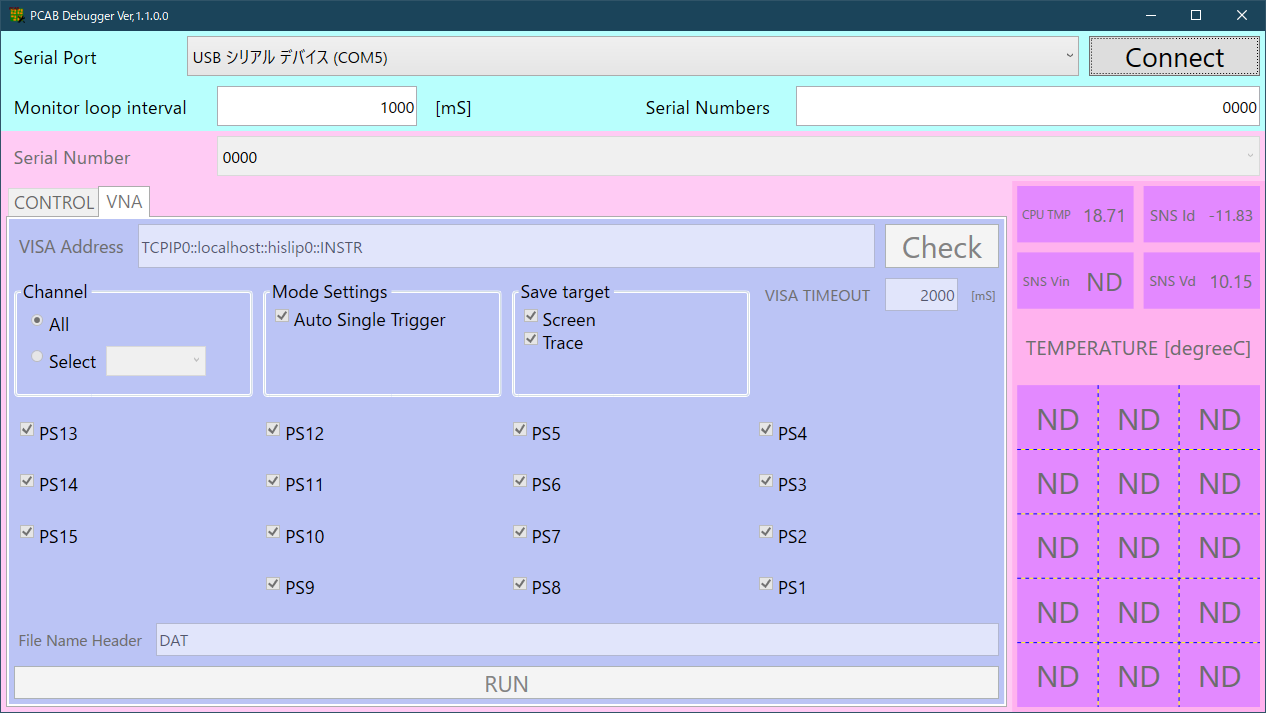
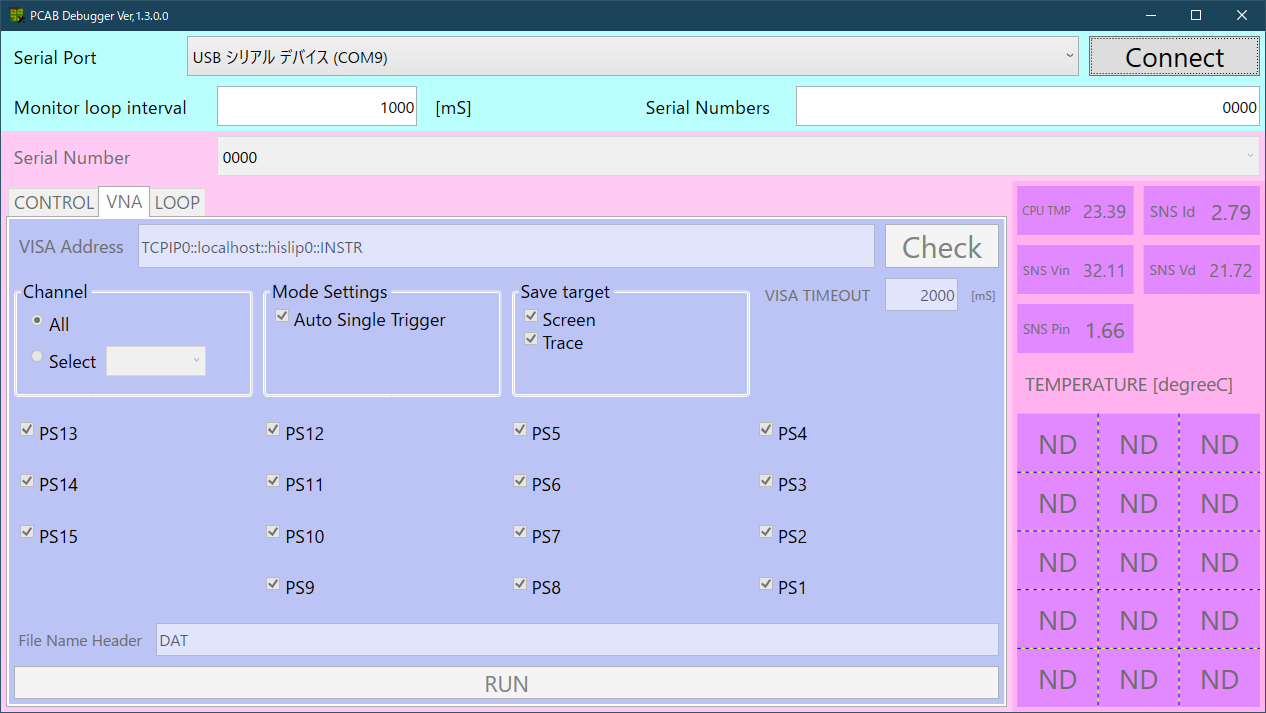
1.3.0

Changed region(s): [[0.8009, 0.2777, 1.0, 0.9874], [0.0924, 0.2468, 0.1848, 0.3086]]

diff --git a/PCAB_Debugger_GUI/winMain.xaml b/PCAB_Debugger_GUI/winMain.xaml
@@ -119,7 +119,7 @@
                                     <RowDefinition Height="8*"/>
                                 </Grid.RowDefinitions>
                                 <Viewbox Grid.Row="0" Margin="5" HorizontalAlignment="Left">
-                                    <Label Content="Phase Config" />
+                                    <Label Content="Phase and ATT Config" />
                                 </Viewbox>
                                 <Grid x:Name="Port_GRID" Grid.Row="1" ShowGridLines="True">
                                     <Grid.RowDefinitions>
@@ -606,13 +606,13 @@
                             </Grid>
                             <Grid x:Name="LOOP_CONF_GRID" Grid.Row="2">
                                 <Grid.ColumnDefinitions>
+                                    <ColumnDefinition Width="2*"/>
+                                    <ColumnDefinition Width="2*"/>
+                                    <ColumnDefinition Width="2*"/>
                                     <ColumnDefinition Width="1*"/>
-                                    <ColumnDefinition Width="1*"/>
-                                    <ColumnDefinition Width="1*"/>
-                                    <ColumnDefinition Width="1*"/>
-                                    <ColumnDefinition Width="1*"/>
+                                    <ColumnDefinition Width="2*"/>
                                 </Grid.ColumnDefinitions>
-                                <Label Grid.Column="0" Content="Wait time until next step" Margin="5" VerticalContentAlignment="Center" HorizontalContentAlignment="Right"/>
+                                <Label Grid.Column="0" Content="Wait Time" Margin="5" VerticalContentAlignment="Center" HorizontalContentAlignment="Right"/>
                                 <TextBox Grid.Column="1" x:Name="WAITTIME_TEXTBOX" Style="{StaticResource EDIT_TEXT_LINE}" TextWrapping="Wrap" Text="500" Margin="5" VerticalContentAlignment="Center" HorizontalContentAlignment="Right" PreviewTextInput="DEC_TextBox_PreviewTextInput" CommandManager.PreviewExecuted="DEC_TextBox_PreviewExecuted" PreviewLostKeyboardFocus="DEC_TextBox_PreviewLostKeyboardForcus" FontSize="16"/>
                                 <Label Grid.Column="2" Content="[mS]" VerticalContentAlignment="Center" HorizontalContentAlignment="Left"/>
                                 <Button Grid.Column="4" x:Name="LOOP_START_BUTTON" Content="START" Margin="5" Click="LOOP_START_BUTTON_Click"/>

diff --git a/PCAB_Debugger_GUI/README.md b/PCAB_Debugger_GUI/README.md
@@ -15,21 +15,24 @@ ${\color{Magenta} 2. \space Control \space and \space Receive}$<br>
 2.1.  Serial Number          : Select serial numbers to send and receive.<br>
 2.2.  CPU TMP                : CPU internal temperature value [degreeC].<br>
 2.3.  SNS Vin                : Vin voltage value [V].<br>
-2.4.  SNS Id                 : Id current value [A].<br>
-2.5.  SNS Vd                 : Vd voltage value [V].<br>
-2.6.  Tempurature            : 1-wire sensor temperature value [degreeC].<br>
+2.4.  SNS Pin                : PreAMP Detector voltage value [V].<br>
+2.5.  SNS Id                 : Id current value [A].<br>
+2.6.  SNS Vd                 : Vd voltage value [V].<br>
+2.7.  Tempurature            : 1-wire sensor temperature value [degreeC].<br>
 
 ${\color{Gold} 3. \space Control \space TAB}$<br>
 3.1.  Standby AMP            : If checked, it will go into standby mode.<br>
 3.2.  Standby DRA            : If checked, it will go into standby mode.<br>
 3.3.  Low Power Mode         : If checked, it will go into low power mode.<br>
-3.4.  Phase Config           : Setting the phase.<br>
+3.4.  Phase and ATT Config   : Setting the phase delay and attenation.<br>
 3.5.  Standby LNA            : If checked, it will go into standby mode.<br>
-3.6.  Save and Load Target   : Memory number to save and load.<br>
-3.7.  Load Memory            : Load state to memory(ROM).<br>
-3.8.  Save Memory            : Save state to memory(ROM).<br>
-3.9.  Preset Config          : Preset config.<br>
-3.11. Set Phase Config       : Write phase config.<br>
+3.6.  Set ATT Config         : Write attenation config.<br>
+3.7.  Set Phase Config       : Write phase delay config.<br>
+3.8.  Set Config             : Write phase delay and attnation config.<br>
+3.9.  Save and Load Target   : Memory number to save and load.<br>
+3.10. Load Memory            : Load state to memory(ROM).<br>
+3.11. Save Memory            : Save state to memory(ROM).<br>
+3.12. Preset Config          : Preset config.<br>
 
 
 <br><img src="https://github.com/mw-eng/PCAB_Debugger/blob/master/PCAB_Debugger_GUI/assets/UI2.png?raw=true" width="600px"><br>
@@ -48,4 +51,11 @@ ${\color{LightSkyBlue} 4. \space VNA \space automatic \space measurement \space 
 <br><img src="https://github.com/mw-eng/PCAB_Debugger/blob/master/PCAB_Debugger_GUI/assets/UI3.png?raw=true" width="600px"><br>
 <br>
 ${\color{Lime} 5. \space LOOP \space automatic \space loop \space control}$<br>
-5.1.  DPS Loop 	             : <br>
+5.1.  DPS Loop 	             : Enable the phase delay step loop.<br>
+5.2.  DPS step				 : Select the phase delay step interval.<br>
+5.3.  DPSn                   : Select target.<br>
+5.4.  DSA Loop 	             : Enable the attenation step loop.<br>
+5.5.  DSA step				 : Select the attenation step interval.<br>
+5.6.  DSAn                   : Select target.<br>
+5.7.  Waite Time             : Waite time befor next step.<br>
+5.8.  START Button			 : Automatic loop control execution button.<br>
